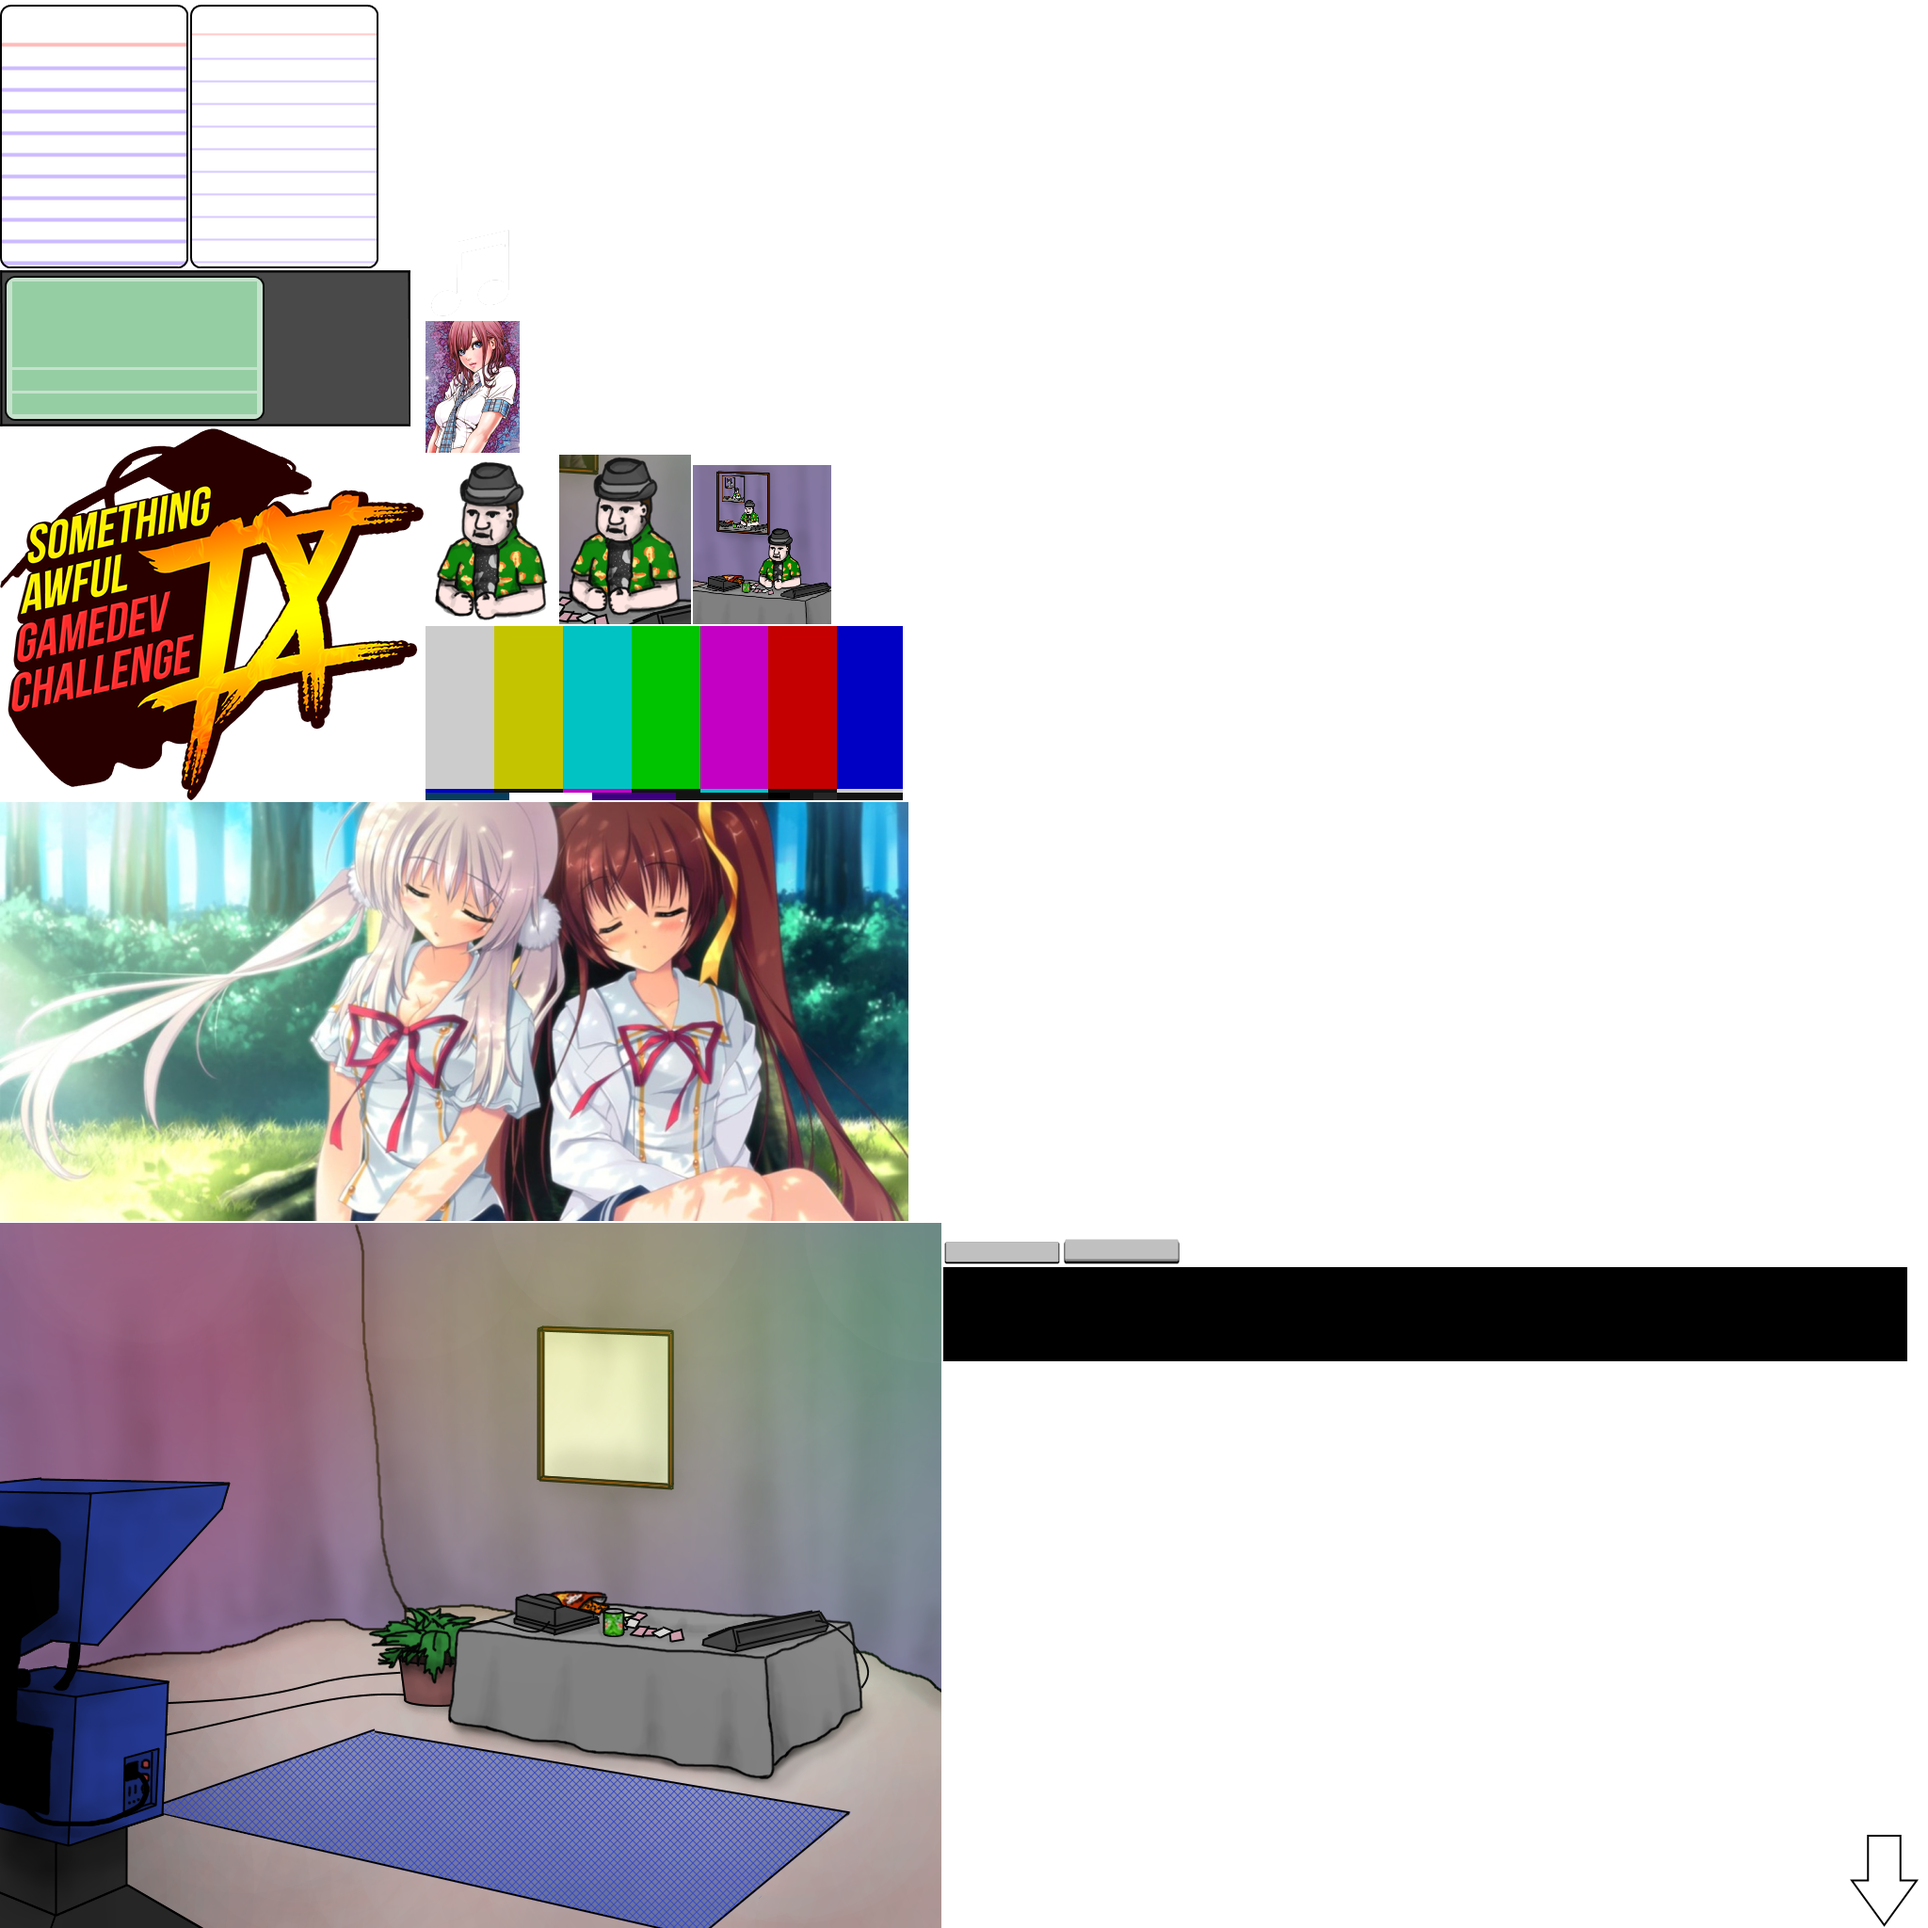
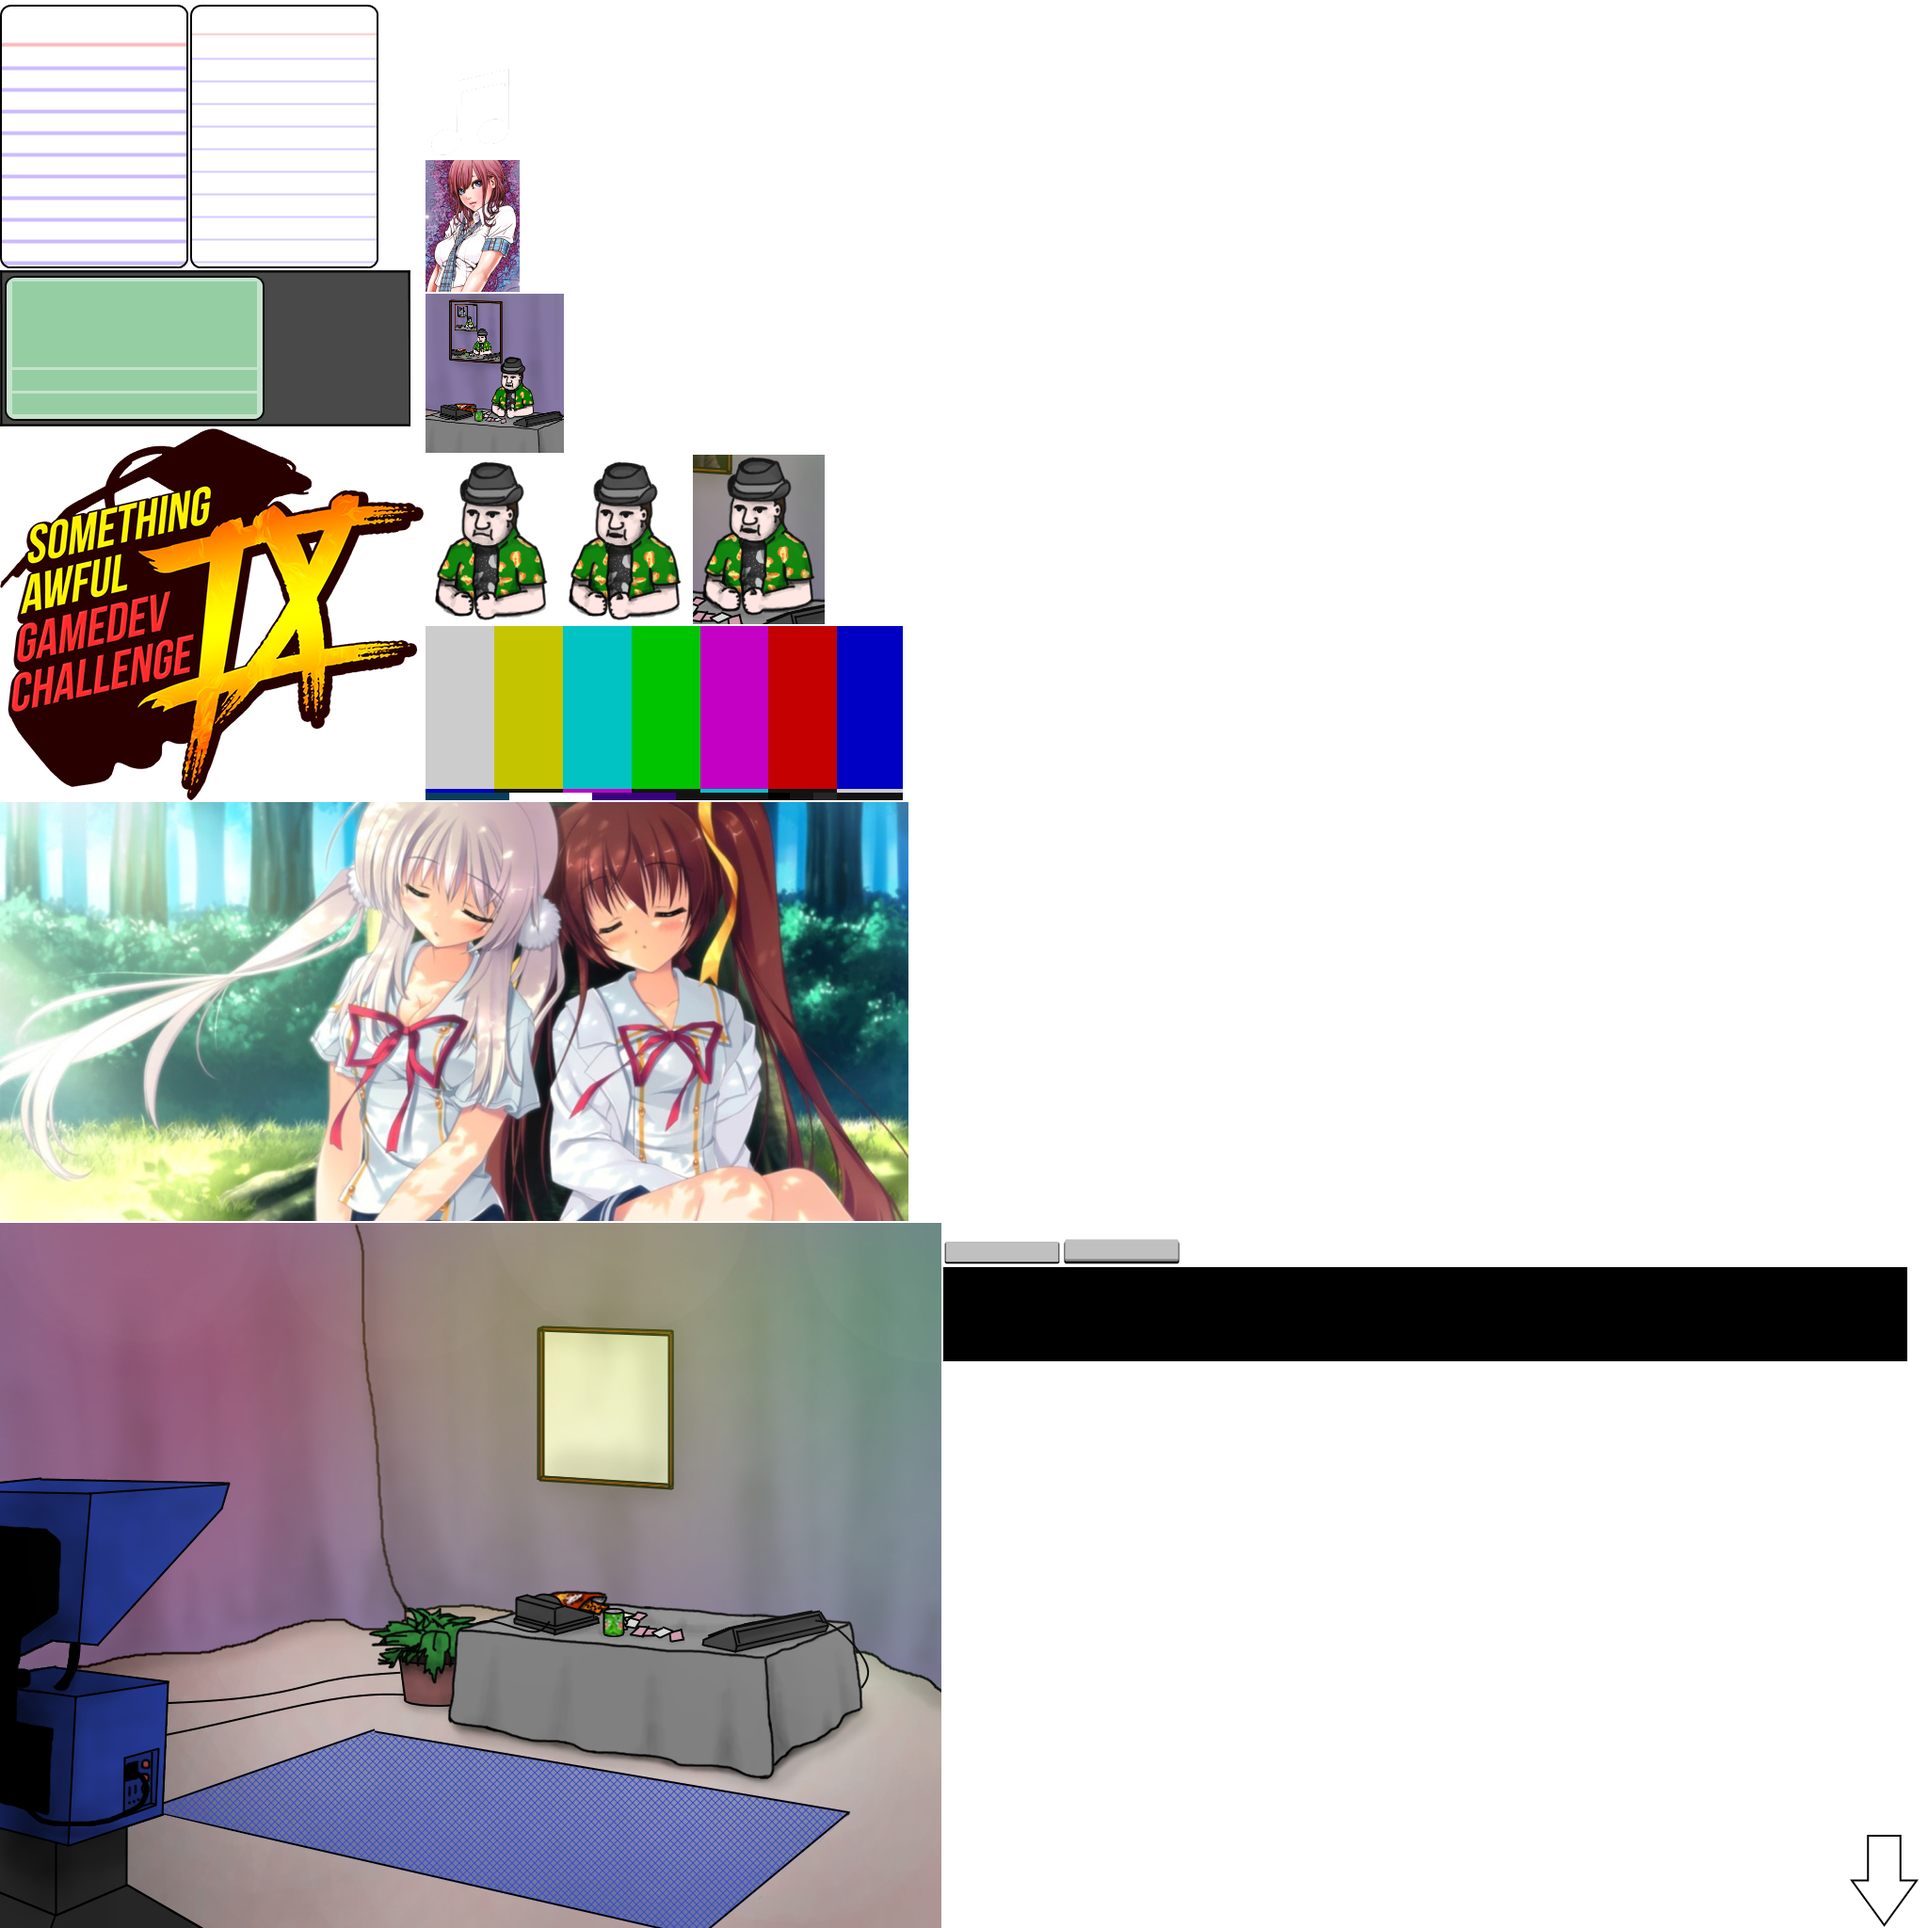
Mumbling animations

Changed region(s): [[0.2188, 0.0625, 0.4375, 0.3438]]

diff --git a/unity/Assets/HostSpeechManager.cs b/unity/Assets/HostSpeechManager.cs
@@ -1,0 +1,127 @@
+using UnityEngine;
+using System.Collections;
+using System.Collections.Generic;
+
+public class HostSpeechManager : MonoBehaviour {
+
+    public List<Sprite> speakingSprites;
+
+    private int currentAnimFrame = 0;
+
+    private UISprite spriteScript;
+
+    public float BaseAnimationDelay = 0.15f;
+
+    public float AnimationDelayRangeOffset = 0.05f;
+
+    public float AnimationStartDelay = 0.05f;
+
+    private bool animationReady = true;
+
+	// Use this for initialization
+	void Start () {
+        spriteScript = gameObject.GetComponent<UISprite>();
+        
+	}
+	
+	// Update is called once per frame
+	void Update () {
+
+        //if (GameMessageManager.gameMessageManager.AlwaysDoHostMumble ||
+        //    (GameMessageManager.gameMessageManager.CurrentSpeaker == GameMessageManager.Speaker.Host &&
+        //    !GameMessageManager.gameMessageManager.IsFinished))
+        //{
+        //    if (animationReady)
+        //    {
+        if (ShouldAnimate())
+        {
+            StartCoroutine(AnimateHost());
+        }
+        //    }
+        //}
+	}
+
+    private bool ShouldAnimate()
+    {
+        if (forceAnimate ||
+            GameMessageManager.gameMessageManager.AlwaysDoHostMumble ||
+            (GameMessageManager.gameMessageManager.CurrentSpeaker == GameMessageManager.Speaker.Host &&
+            !GameMessageManager.gameMessageManager.IsFinished))
+        {
+            return animationReady;
+        }
+
+        return false;
+    }
+
+    public IEnumerator AnimateHost()
+    {
+        animationReady = false;
+
+        float randomDelay = Random.Range(AnimationStartDelay - AnimationDelayRangeOffset,
+            AnimationStartDelay + AnimationDelayRangeOffset);
+
+        //don't start animating immediately
+        yield return new WaitForSeconds(randomDelay);
+
+        //start at the second sprite, because we assume we were already at the beginning sprite after 1 cycle
+        for (int i = 1; i < speakingSprites.Count; i++)
+        {
+            spriteScript.spriteName = speakingSprites[i].name;
+
+            randomDelay = Random.Range(BaseAnimationDelay - AnimationDelayRangeOffset,
+                BaseAnimationDelay + AnimationDelayRangeOffset);
+
+            yield return new WaitForSeconds(randomDelay);
+        }
+
+        //did 1 animation cycle, now set it back to beginning
+        spriteScript.spriteName = speakingSprites[0].name;
+
+        animationReady = true;
+    }
+
+    private bool forceAnimate = false;
+
+    public void ForceAnimate(float duration)
+    {
+        ForceAnimate(duration, AnimationStartDelay, BaseAnimationDelay, AnimationDelayRangeOffset);
+    }
+
+    public void ForceAnimate(float duration, float beginDelay, float animateDelay, float delayRange)
+    {
+        //can't start a new forced animation while one is already playing
+        if (forceAnimate) { return; }
+
+        //cache the original animation timing values so we don't lose them
+        cachedStartDelay = AnimationStartDelay;
+        cachedAnimateDelay = BaseAnimationDelay;
+        cachedDelayRange = AnimationDelayRangeOffset;
+
+        //update animation timing values
+        AnimationStartDelay = beginDelay;
+        BaseAnimationDelay = animateDelay;
+        AnimationDelayRangeOffset = delayRange;
+
+        forceAnimate = true;
+
+        StartCoroutine(ResetForceAnimate(duration));
+    }
+
+    private IEnumerator ResetForceAnimate(float delay)
+    {
+        yield return new WaitForSeconds(delay);
+
+        forceAnimate = false;
+
+        //restore cached animation timing values
+        AnimationStartDelay = cachedStartDelay;
+        BaseAnimationDelay = cachedAnimateDelay;
+        AnimationDelayRangeOffset = cachedDelayRange;
+    }
+
+    private float cachedStartDelay = 0.0f;
+    private float cachedAnimateDelay = 0.0f;
+    private float cachedDelayRange = 0.0f;
+
+}

diff --git a/unity/Assets/HostClicker.cs b/unity/Assets/HostClicker.cs
@@ -8,9 +8,21 @@ public class HostClicker : MonoBehaviour {
 
     public AudioSource source;
 
+    public float AnimationDuration = 2.0f;
+
+    public float ForcedBeginDelay = 0.2f;
+    public float ForcedAnimDelay = 1.0f;
+    public float ForcedAnimRange = 0.0f;
+
+    public float StartTimer = 3.0f;
+
+    private HostSpeechManager speechManager;
+
 	// Use this for initialization
 	void Start () {
-	
+        speechManager = gameObject.GetComponent<HostSpeechManager>();
+
+        StartCoroutine(BeginStartTimer());
 	}
 	
 	// Update is called once per frame
@@ -18,21 +30,78 @@ public class HostClicker : MonoBehaviour {
 	
 	}
 
+    private IEnumerator BeginStartTimer()
+    {
+        //will just decrease timer until it is less than zero
+        while (StartTimer > 0.0f)
+        {
+            yield return null;
+            StartTimer = StartTimer - Time.deltaTime;
+        }
+    }
+
     bool canPlaySound = true;
 
     void OnClick()
     {
-        if (canPlaySound && GameMessageManager.gameMessageManager.IsFinished)
+        if (!(StartTimer > 0.0f))
         {
-            canPlaySound = false;
-            StartCoroutine(PlayHostSounds());
+            if (canPlaySound && GameMessageManager.gameMessageManager.IsFinished)
+            {
+                canPlaySound = false;
+                StartCoroutine(PlayHostSounds());
+            }
         }
     }
+
+    void OnDoubleClick()
+    {
+        if (!(StartTimer > 0.0f))
+        {
+            if (GameMessageManager.gameMessageManager.AlwaysDoHostMumble)
+            {
+                StartCoroutine(DisableAlwaysMumble());
+            }
+            else
+            {
+                StartCoroutine(EnableAlwaysMumble());
+            }
+        }
+    }
+
+    private IEnumerator EnableAlwaysMumble()
+    {
+        //if we're toggling on, wait for any current sounds to finish
+
+        while (!canPlaySound)
+        {
+            yield return null;
+        }
+
+        canPlaySound = false; //disable clicking to play single shot sounds
+
+        GameMessageManager.gameMessageManager.AlwaysDoHostMumble = true;
+    }
+
+    private IEnumerator DisableAlwaysMumble()
+    {
+        //if we're toggling off, turn it off immediately
+        GameMessageManager.gameMessageManager.AlwaysDoHostMumble = false;
+
+        //enable clicking to play single shot sounds
+        canPlaySound = true;
+
+        yield return null;
+    }
+
 
     public float ClipDelayOffset = -0.1f;
 
     private IEnumerator PlayHostSounds()
     {
+
+        speechManager.ForceAnimate(AnimationDuration, ForcedBeginDelay, ForcedAnimDelay, ForcedAnimRange);
+
         foreach (AudioClip clip in clips)
         {
             source.PlayOneShot(clip);

diff --git a/unity/Assets/TutorialManager.cs b/unity/Assets/TutorialManager.cs
@@ -275,14 +275,20 @@ Your deck saves between calls, shows, and game sessions!
 
 Try gaining a card by dragging it to the discard pile.";
 
-    private string credits = @"Iron Pencil is Jim South (sighnoceros on SA)
+    private string credits = @"Iron Pencil is:
 
+The Contemptuous Mr. Jim South
+Design, Art, Programming
 
-Special Thanks:
+With Special Thanks To:
 
-Everdraed - Testing and Feedback
+The Bewildering Mr. Austin Thresher
+'Casio Lines'
 
-and #SAGameDev on synirc.net";
+The Deplorable Mr. Everdraed
+Sound Effects
+
+and #SAGameDev on synIRC.net";
 
 
     private string refreshTutorial = @"Welcome!

diff --git a/unity/Assets/Scripts/Game/GameMessageManager.cs b/unity/Assets/Scripts/Game/GameMessageManager.cs
@@ -137,7 +137,7 @@ public class GameMessageManager : MonoBehaviour {
 
     private Queue<int> previousMumbles = new Queue<int>();
 
-    private bool playNextMumble = true;
+    private bool playNextMumble = true;    
 
     private IEnumerator DelayMumbling(float delayLength)
     {
@@ -273,6 +273,8 @@ public class GameMessageManager : MonoBehaviour {
     private Queue<MessageItem> messageQueue = new Queue<MessageItem>();
 
     private Speaker currentSpeaker = Speaker.Host;
+
+    public Speaker CurrentSpeaker { get { return currentSpeaker; } }
 
     public enum Speaker
     {

diff --git a/unity/Assets/StarBoxController.cs b/unity/Assets/StarBoxController.cs
@@ -21,10 +21,4 @@ public class StarBoxController : MonoBehaviour {
         //StartCoroutine(LetThereBeLight());
     }
 
-    private IEnumerator LetThereBeLight()
-    {
-        yield return new WaitForSeconds(delay);
-
-        
-    }
 }
